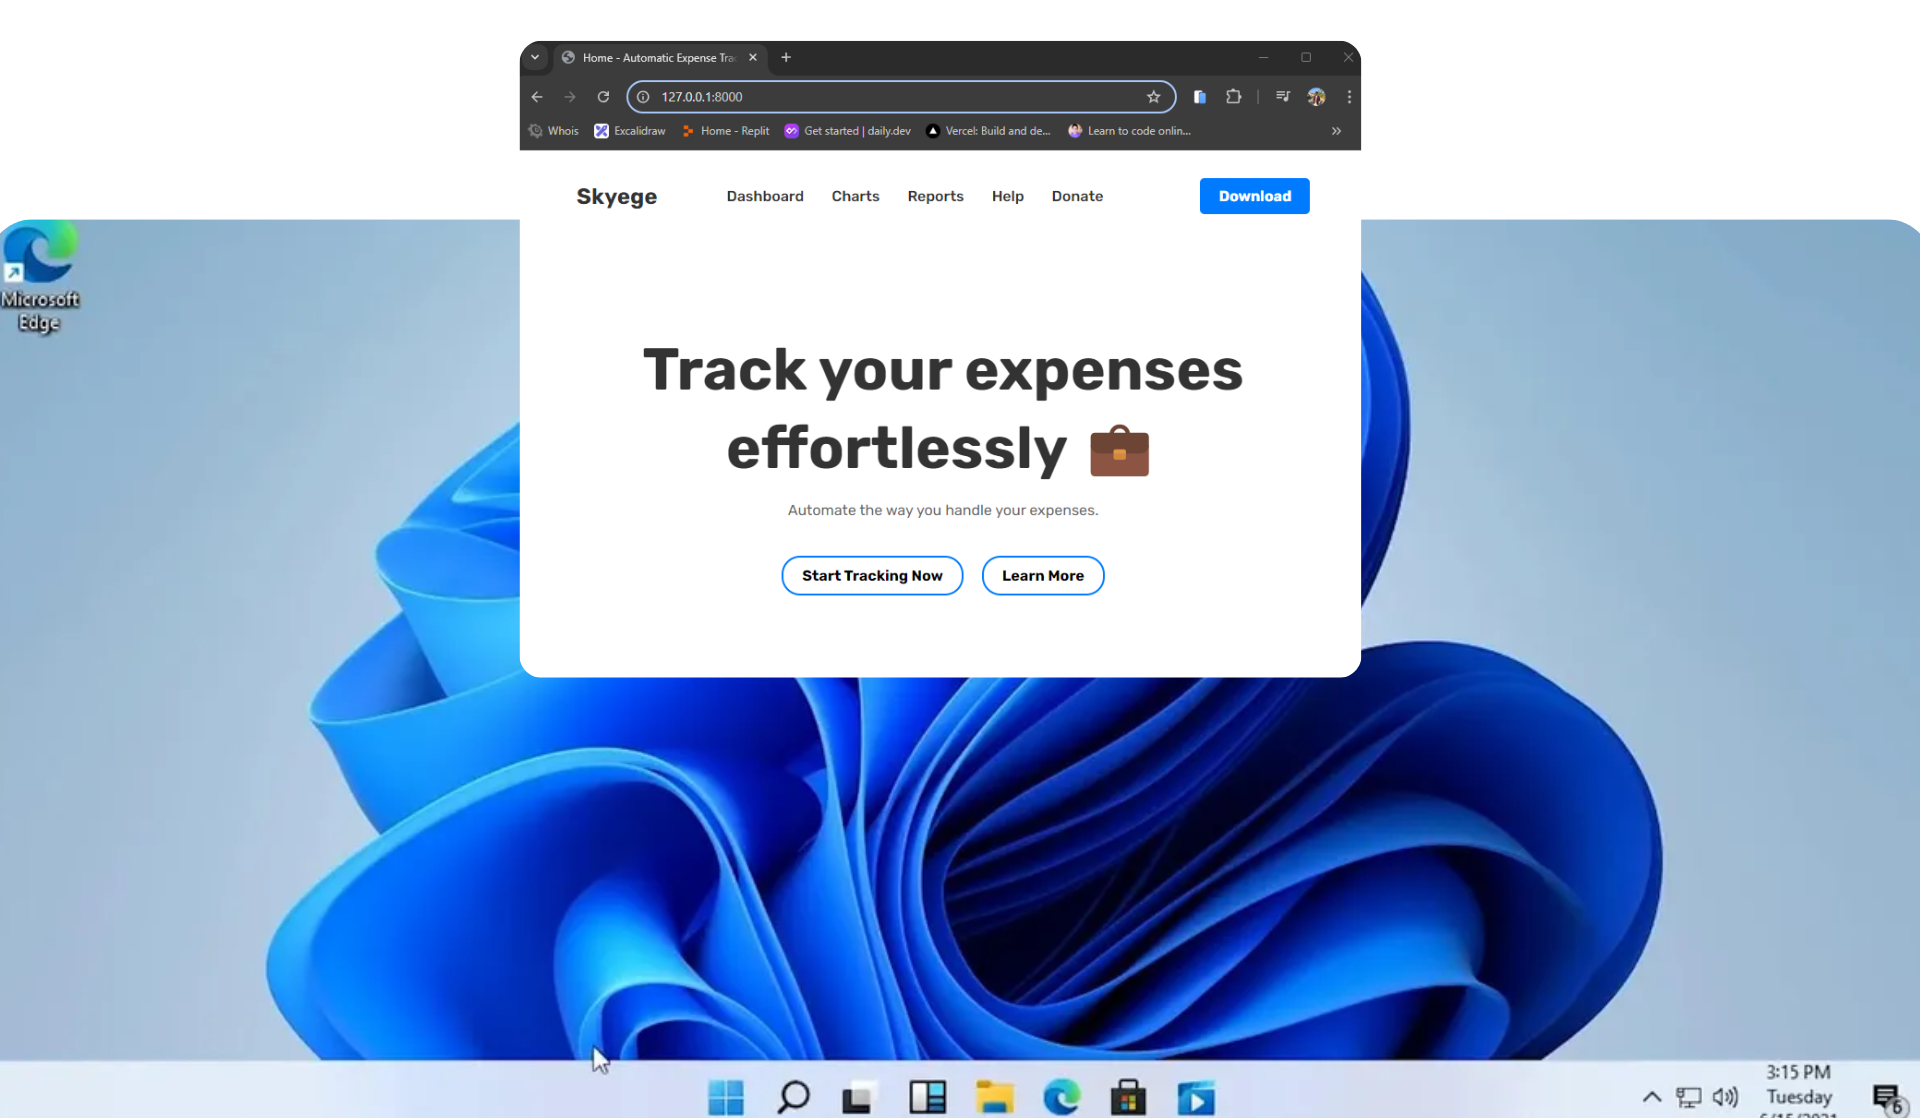
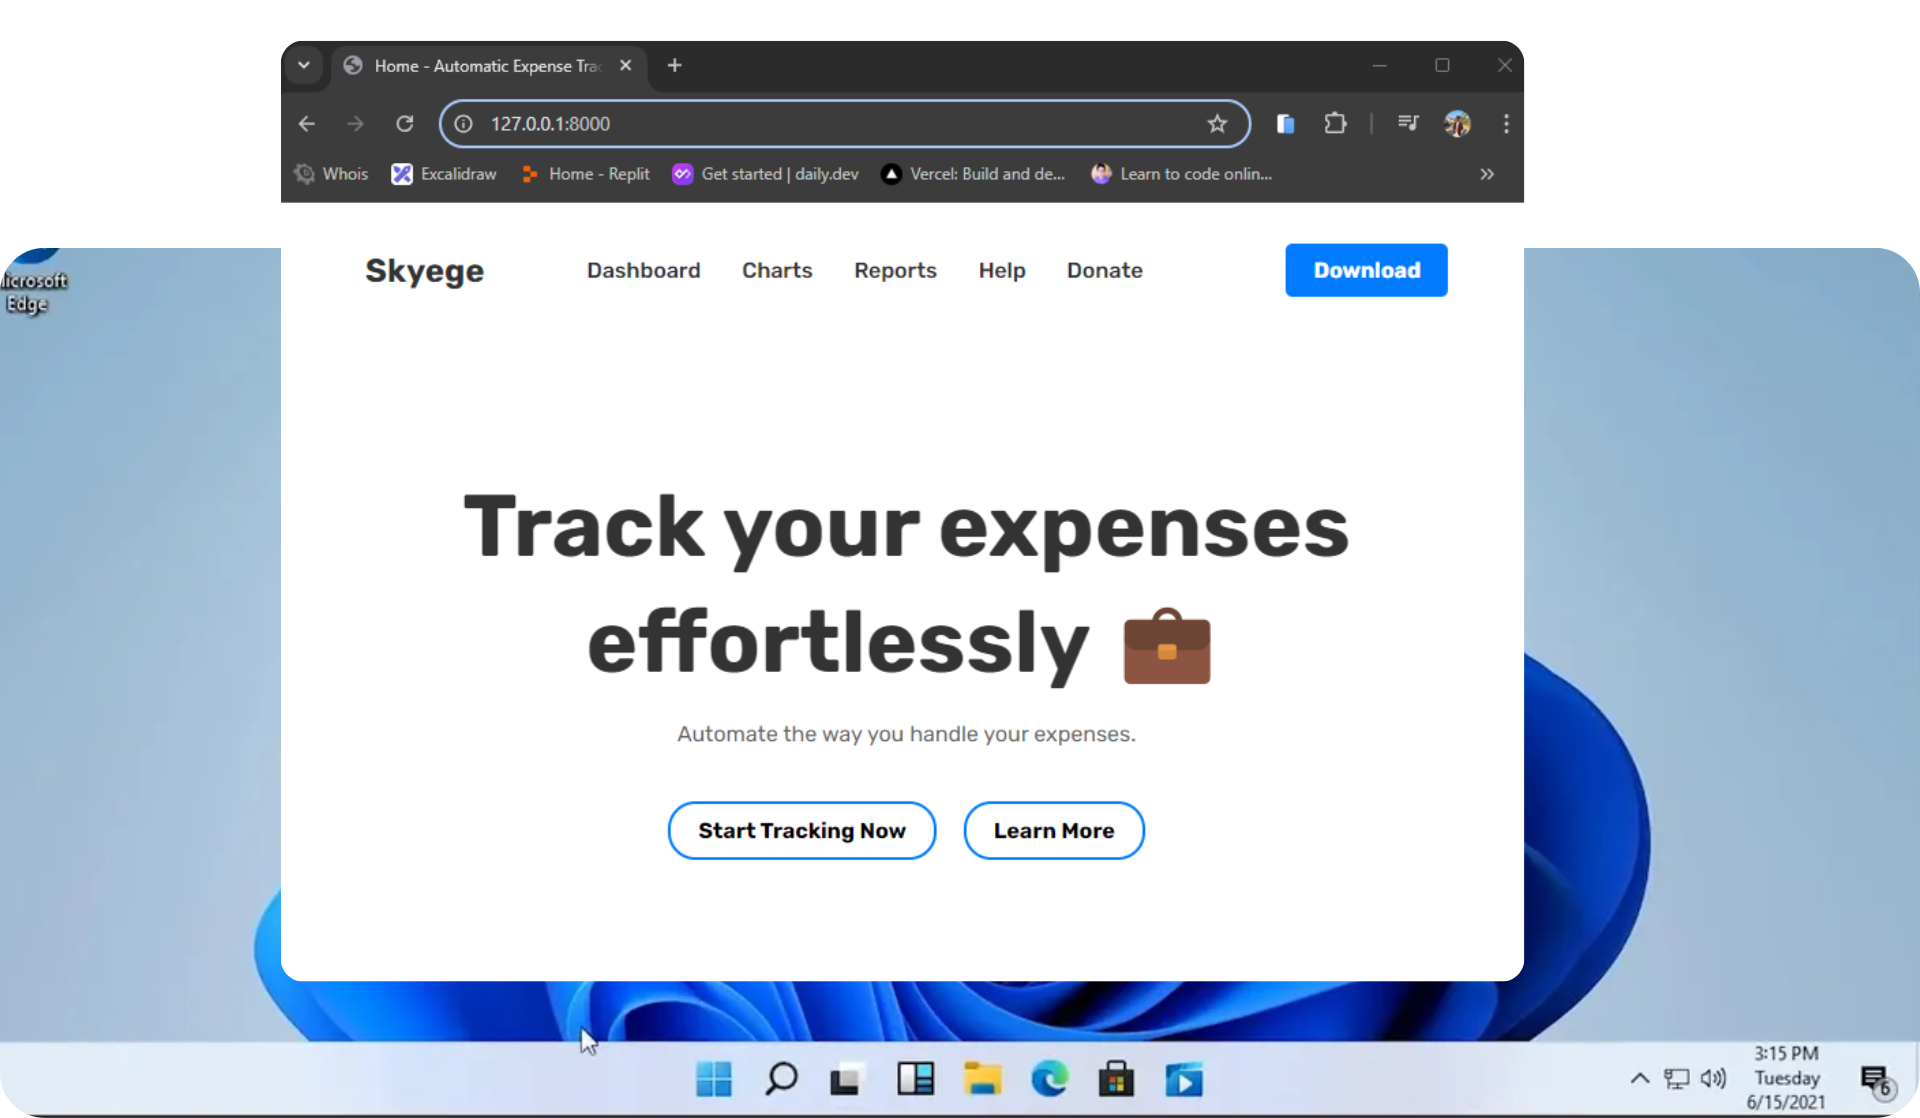
resized the poster image

diff --git a/skyege/static/assets/css/index.css b/skyege/static/assets/css/index.css
@@ -76,9 +76,9 @@
   }
   
   .app-image {
-    max-width: 100%;
+    max-width: 60%;
     height: auto;
-    box-shadow: 0 4px 10px rgba(0, 0, 0, 0.1);
+    
     border-radius: 10px;
   }
   
@@ -94,6 +94,13 @@
         flex-direction: column;
     }
     .app-image {
-        width: 100%;
+        max-width: 94%;
+        height: auto;
+        margin: auto 3rem;
+        
+      }
+      .cta-button, .cta-secondary{
+        width: 80%;
+        margin: auto;
       }
 }

diff --git a/skyege/skyege/settings.py b/skyege/skyege/settings.py
@@ -117,6 +117,7 @@ USE_TZ = True
 # https://docs.djangoproject.com/en/5.1/howto/static-files/
 
 STATIC_URL = 'static/'
+STATIC_ROOT = 'staticfiles/'
 STATICFILES_DIRS = [os.path.join(BASE_DIR, 'static')]
 MEDIA_URL = '/media/'
 MEDIA_ROOT = os.path.join(BASE_DIR, 'media')
